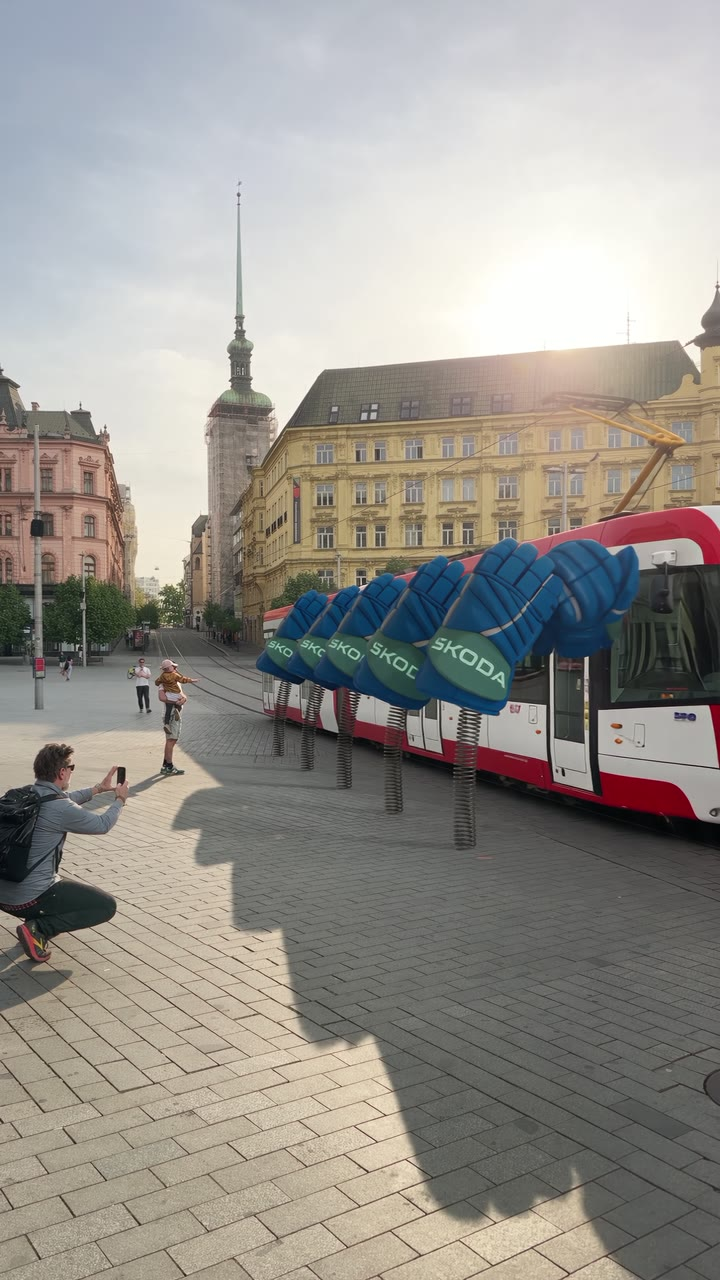
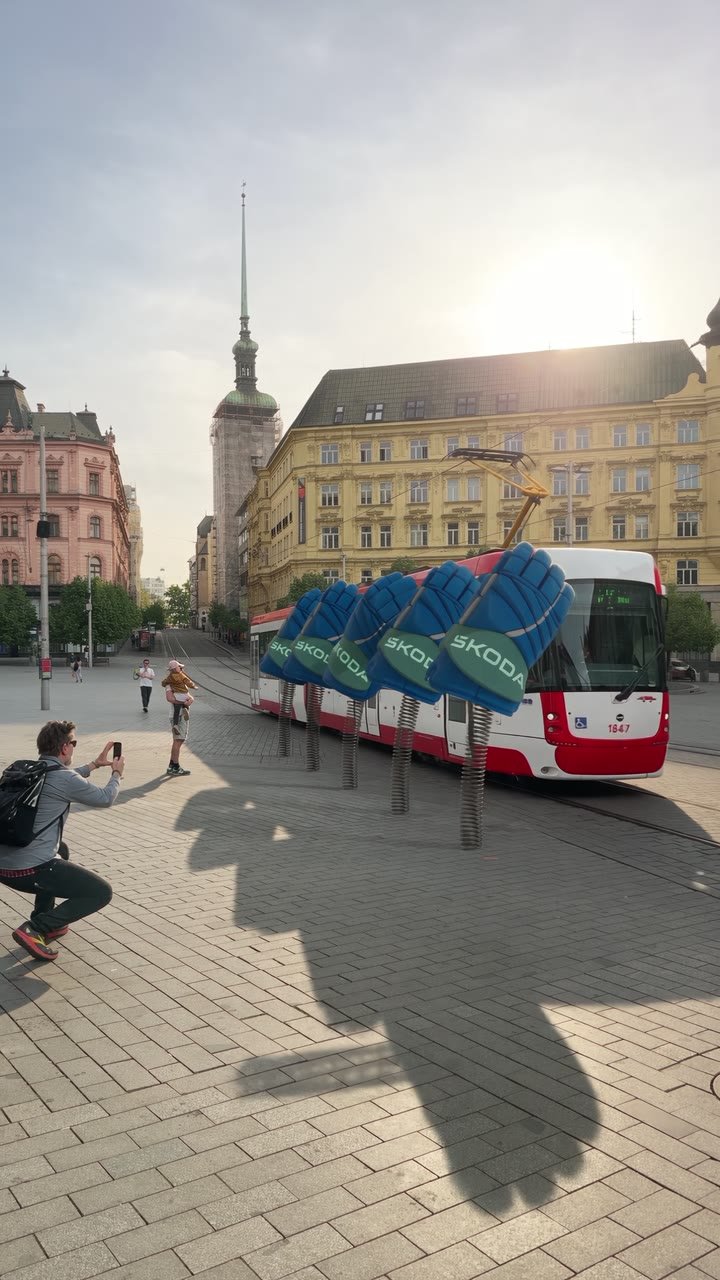
Škoda FOOH Brno: texts v9.4 + v9.5 verbatim, still 2 with tram 1847 — 2026-11-24
- page / homepage / nav: name "Škoda — FOOH Brno", h1, credits (Škoda, Punctum Images,
  Supervisor & 3D Artist, 2024), desc 1 + meta description from v9.5, desc 2 and all
  alts from v9.4 (texty_projekty.md). No [TEXT] placeholders left.
- still 2 re-taken at 5.417 s (was 6.25 s): its alt names tram 1847, the number is on
  the tram front, visible only around 5.3 s. Stills 1 and 3 unchanged (1.25 / 9.583 s).

Changed region(s): [[0.0, 0.1562, 1.0, 1.0], [0.3361, 0.625, 0.3972, 0.6562]]

diff --git a/skoda-fooh-brno.html b/skoda-fooh-brno.html
@@ -3,8 +3,8 @@
 <head>
   <meta charset="UTF-8">
   <meta name="viewport" content="width=device-width, initial-scale=1.0">
-  <title>ŠKODA FOOH Brno — Ondrej Cervinka</title>
-  <meta name="description" content="[TEXT]">
+  <title>Škoda — FOOH Brno — Ondrej Cervinka</title>
+  <meta name="description" content="FOOH activation for Škoda at the 2024 Ice Hockey World Championship — giant gloves fist-bump a tram in Brno. By Ondrej Cervinka, CG artist in Prague.">
   <link rel="preconnect" href="https://fonts.googleapis.com">
   <link rel="preconnect" href="https://fonts.gstatic.com" crossorigin>
   <link href="https://fonts.googleapis.com/css2?family=Inter:wght@300;400;500&family=Noto+Serif:ital,wght@0,400;0,500;1,400&display=swap" rel="stylesheet">
@@ -26,9 +26,8 @@
 
   <main class="project">
 
-    <!-- TEXT: alt k doplnění copywriterem -->
     <div class="project-hero video-wrap project-hero--portrait">
-      <video muted playsinline preload="metadata" poster="assets/projects/skoda-fooh-brno/fooh-hero.jpg" aria-label="[TEXT]">
+      <video muted playsinline preload="metadata" poster="assets/projects/skoda-fooh-brno/fooh-hero.jpg" aria-label="Škoda FOOH — five giant blue hockey gloves on springs in a Brno square, lit by low evening sun">
         <source src="assets/projects/skoda-fooh-brno/fooh-hero.mp4" type="video/mp4">
       </video>
       <div class="video-overlay">
@@ -48,43 +47,44 @@
       <div class="project-intro-left">
         <div class="chapter-head">
           <span class="chapter-arrow" aria-hidden="true">↑</span>
-          <span class="chapter-client">[TEXT]</span>
+          <span class="chapter-client">Škoda</span>
         </div>
-        <h1 class="project-title">ŠKODA FOOH Brno.</h1>
+        <h1 class="project-title">Gloves<br>on springs.</h1>
         <div class="project-meta-grid">
           <div class="project-meta-item">
             <span class="fig-label">Client</span>
-            <span class="fig-value">[TEXT]</span>
+            <span class="fig-value">Škoda</span>
           </div>
           <div class="project-meta-item">
             <span class="fig-label">Studio</span>
-            <span class="fig-value">[TEXT]</span>
+            <span class="fig-value">Punctum Images</span>
           </div>
           <div class="project-meta-item">
             <span class="fig-label">Work</span>
-            <span class="fig-value">[TEXT]</span>
+            <span class="fig-value">Supervisor &amp; 3D Artist</span>
           </div>
           <div class="project-meta-item">
             <span class="fig-label">Year</span>
-            <span class="fig-value">[TEXT]</span>
+            <span class="fig-value">2024</span>
           </div>
         </div>
       </div>
       <div class="project-intro-right">
-        <p class="project-desc">[TEXT]</p>
+        <p class="project-desc">FOOH activation for Škoda at the 2024 Ice Hockey World Championship, made at Punctum Images — five giant hockey gloves on springs in a Brno square fist-bump a passing tram, the way players celebrate a goal.</p>
+        <p class="project-desc">The footage was shot on a flat, gray, overcast day. An AI-assisted relight turned it into warm evening backlight: low sun above the yellow building, long soft shadows of gloves and people running toward the camera. The gloves still sway on their springs, and the tram keeps its lettering.</p>
       </div>
     </div>
 
     <div class="project-gallery">
       <div class="chapter-grid chapter-grid--three chapter-grid--portrait">
         <figure class="fig">
-          <div class="fig-img-wrap"><img src="assets/projects/skoda-fooh-brno/fooh-still-1.webp" alt="[TEXT]" width="1080" height="1920" loading="lazy"></div>
+          <div class="fig-img-wrap"><img src="assets/projects/skoda-fooh-brno/fooh-still-1.webp" alt="Škoda FOOH — a man with a backpack photographs the row of gloves" width="1080" height="1920" loading="lazy"></div>
         </figure>
         <figure class="fig">
-          <div class="fig-img-wrap"><img src="assets/projects/skoda-fooh-brno/fooh-still-2.webp" alt="[TEXT]" width="1080" height="1920" loading="lazy"></div>
+          <div class="fig-img-wrap"><img src="assets/projects/skoda-fooh-brno/fooh-still-2.webp" alt="Škoda FOOH — tram 1847 passing behind the gloves, the man crouching to photograph them" width="1080" height="1920" loading="lazy"></div>
         </figure>
         <figure class="fig">
-          <div class="fig-img-wrap"><img src="assets/projects/skoda-fooh-brno/fooh-still-3.webp" alt="[TEXT]" width="1080" height="1920" loading="lazy"></div>
+          <div class="fig-img-wrap"><img src="assets/projects/skoda-fooh-brno/fooh-still-3.webp" alt="Škoda FOOH — backlit square, long soft shadows of the gloves running toward the camera" width="1080" height="1920" loading="lazy"></div>
         </figure>
       </div>
     </div>

diff --git a/index.html b/index.html
@@ -170,19 +170,20 @@
           <a class="a2-btn" href="loreal.html">View project →</a>
         </div>
       </section>
-      <section class="a2-slide" id="skoda-fooh-brno" data-index="9" aria-label="ŠKODA FOOH Brno" data-head="light" data-cap="light" data-strip="light" data-head-m="light" data-cap-m="light" data-strip-m="light" aria-hidden="true" style="--focal:50% 50%;--focal-d:50% 50%;--focal-m:50% 50%;--ar:1080/1920;--arn:0.5625;--n:3;--sar:9/16;--sarn:0.5625;--k:2.3704;--top:0;--scrim:0;--strip:0;--plate:0;--top-m:0;--scrim-m:0;--strip-m:0">
+      <section class="a2-slide" id="skoda-fooh-brno" data-index="9" aria-label="Škoda — FOOH Brno" data-head="light" data-cap="light" data-strip="light" data-head-m="light" data-cap-m="light" data-strip-m="light" aria-hidden="true" style="--focal:50% 50%;--focal-d:50% 50%;--focal-m:50% 50%;--ar:1080/1920;--arn:0.5625;--n:3;--sar:9/16;--sarn:0.5625;--k:2.3704;--top:0;--scrim:0;--strip:0;--plate:0;--top-m:0;--scrim-m:0;--strip-m:0">
         <div class="a2-group a2-group--row">
           <video class="a2-media" muted loop playsinline preload="none" poster="assets/projects/skoda-fooh-brno/fooh-hero.jpg" data-src="assets/projects/skoda-fooh-brno/fooh-hero.mp4"></video>
           <ul class="a2-sub">
-            <li><img class="a2-sub-media" data-src="assets/home/strip/skoda-fooh-brno-1.jpg" data-full="assets/projects/skoda-fooh-brno/fooh-still-1.webp" alt="[TEXT]"></li>
-            <li><img class="a2-sub-media" data-src="assets/home/strip/skoda-fooh-brno-2.jpg" data-full="assets/projects/skoda-fooh-brno/fooh-still-2.webp" alt="[TEXT]"></li>
-            <li><img class="a2-sub-media" data-src="assets/home/strip/skoda-fooh-brno-3.jpg" data-full="assets/projects/skoda-fooh-brno/fooh-still-3.webp" alt="[TEXT]"></li>
+            <li><img class="a2-sub-media" data-src="assets/home/strip/skoda-fooh-brno-1.jpg" data-full="assets/projects/skoda-fooh-brno/fooh-still-1.webp" alt="Škoda FOOH — a man with a backpack photographs the row of gloves"></li>
+            <li><img class="a2-sub-media" data-src="assets/home/strip/skoda-fooh-brno-2.jpg" data-full="assets/projects/skoda-fooh-brno/fooh-still-2.webp" alt="Škoda FOOH — tram 1847 passing behind the gloves, the man crouching to photograph them"></li>
+            <li><img class="a2-sub-media" data-src="assets/home/strip/skoda-fooh-brno-3.jpg" data-full="assets/projects/skoda-fooh-brno/fooh-still-3.webp" alt="Škoda FOOH — backlit square, long soft shadows of the gloves running toward the camera"></li>
           </ul>
         </div>
         <div class="a2-cap">
           <p class="a2-pos">CGI artist and visual director.</p>
           <p class="a2-num">10 / 14</p>
-          <h2 class="a2-title">ŠKODA FOOH Brno</h2>
+          <h2 class="a2-title">Škoda — FOOH Brno</h2>
+          <p class="a2-meta"><span>Škoda</span><span>2024</span></p>
           <a class="a2-btn" href="skoda-fooh-brno.html">View project →</a>
         </div>
       </section>
@@ -270,7 +271,7 @@
         <li><button class="a2-thumb" type="button" data-index="6" aria-label="07 NEVA Zipscreen"><img src="assets/home/thumb-neva.jpg" alt="" loading="lazy"><span>07 NEVA Zipscreen</span></button></li>
         <li><button class="a2-thumb" type="button" data-index="7" aria-label="08 Pantene"><img src="assets/home/thumb-pantene.jpg" alt="" loading="lazy"><span>08 Pantene</span></button></li>
         <li><button class="a2-thumb" type="button" data-index="8" aria-label="09 L&#x27;Oréal"><img src="assets/home/thumb-loreal.jpg" alt="" loading="lazy"><span>09 L&#x27;Oréal</span></button></li>
-        <li><button class="a2-thumb" type="button" data-index="9" aria-label="10 ŠKODA FOOH Brno"><img src="assets/home/thumb-skoda-fooh-brno.jpg" alt="" loading="lazy"><span>10 ŠKODA FOOH Brno</span></button></li>
+        <li><button class="a2-thumb" type="button" data-index="9" aria-label="10 Škoda — FOOH Brno"><img src="assets/home/thumb-skoda-fooh-brno.jpg" alt="" loading="lazy"><span>10 Škoda — FOOH Brno</span></button></li>
         <li><button class="a2-thumb" type="button" data-index="10" aria-label="11 Dodge Charger SRT"><img src="assets/home/thumb-dodge-charger.jpg" alt="" loading="lazy"><span>11 Dodge Charger SRT</span></button></li>
         <li><button class="a2-thumb" type="button" data-index="11" aria-label="12 Škoda Kodiaq Sportline"><img src="assets/home/thumb-skoda-kodiaq.jpg" alt="" loading="lazy"><span>12 Škoda Kodiaq Sportline</span></button></li>
         <li><button class="a2-thumb" type="button" data-index="12" aria-label="13 Škoda Octavia Sportline"><img src="assets/home/thumb-skoda-octavia.jpg" alt="" loading="lazy"><span>13 Škoda Octavia Sportline</span></button></li>

diff --git a/loreal.html b/loreal.html
@@ -73,7 +73,7 @@
 
   <nav class="project-nav" aria-label="Project navigation">
     <a href="pantene.html" class="project-nav-back">←&nbsp;Pantene</a>
-    <a href="skoda-fooh-brno.html" class="project-nav-next">ŠKODA FOOH Brno&nbsp;→</a>
+    <a href="skoda-fooh-brno.html" class="project-nav-next">Škoda — FOOH Brno&nbsp;→</a>
   </nav>
 
   <footer class="footer-full">

diff --git a/dodge-charger.html b/dodge-charger.html
@@ -75,7 +75,7 @@
   </main>
 
   <nav class="project-nav" aria-label="Project navigation">
-    <a href="skoda-fooh-brno.html" class="project-nav-back">←&nbsp;ŠKODA FOOH Brno</a>
+    <a href="skoda-fooh-brno.html" class="project-nav-back">←&nbsp;Škoda — FOOH Brno</a>
     <a href="skoda-kodiaq.html" class="project-nav-next">Škoda Kodiaq&nbsp;→</a>
   </nav>
 
